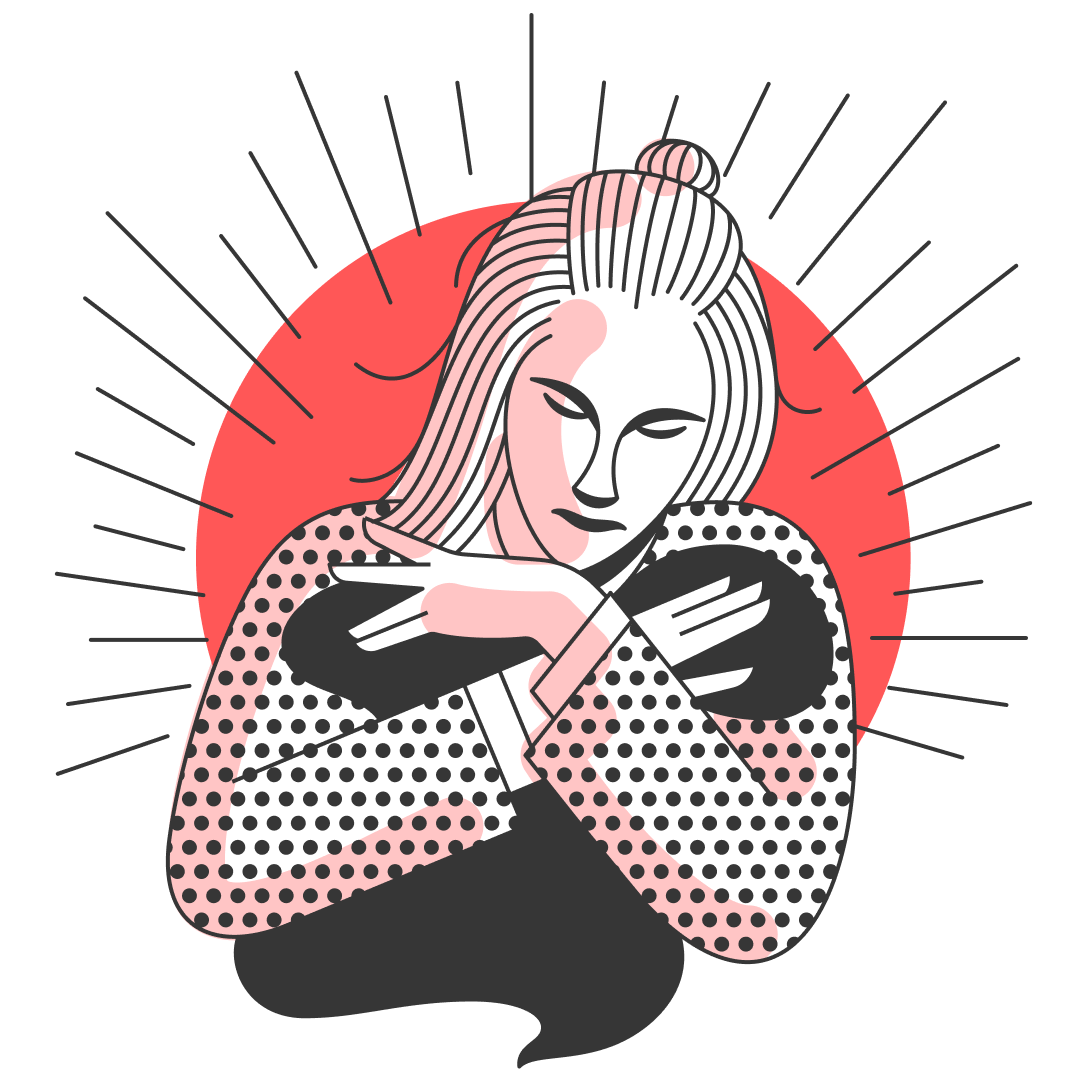
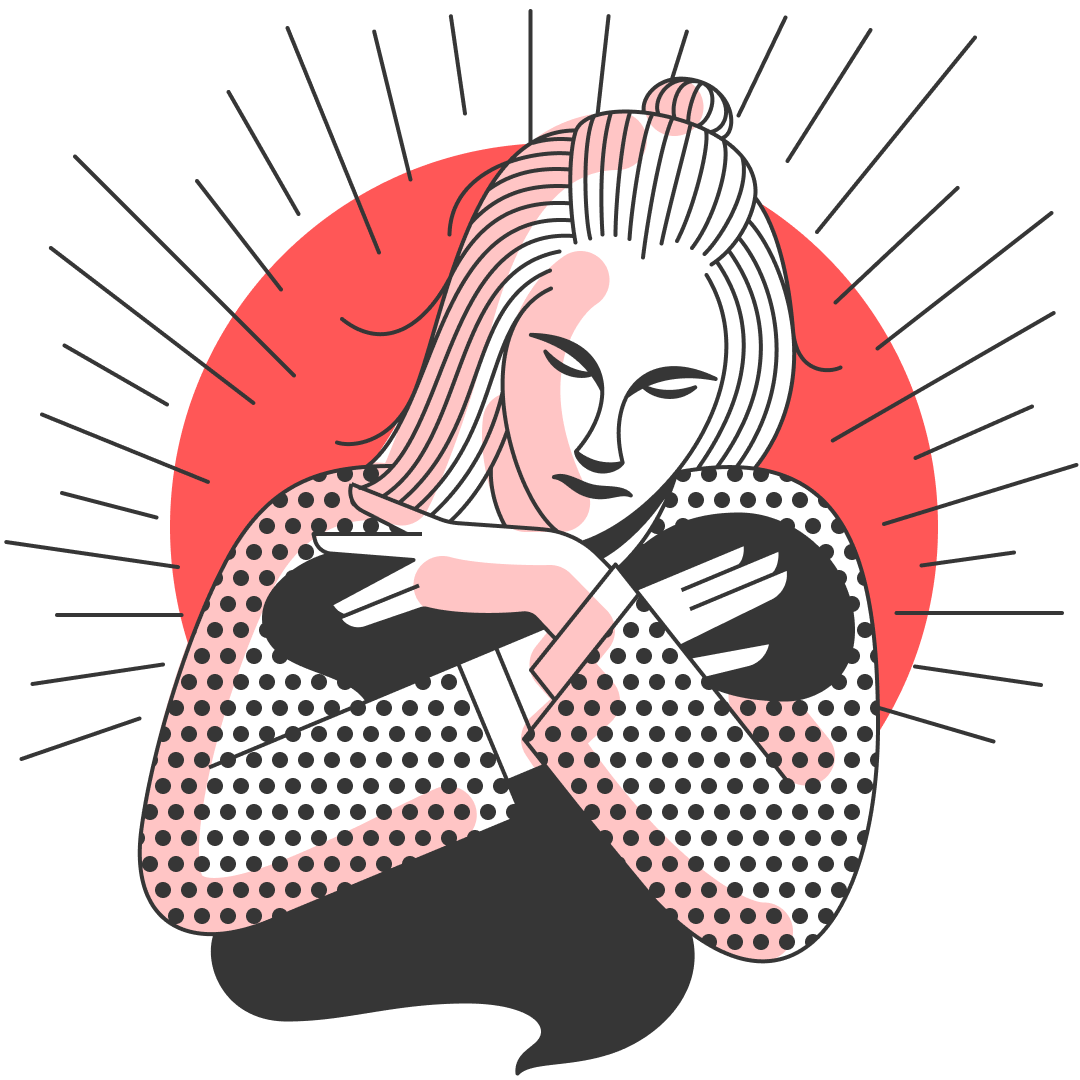
add news section. update illustration. improve mobile styles

diff --git a/src/components/News.tsx b/src/components/News.tsx
@@ -8,6 +8,7 @@ import {BackgroundImage} from '@/components/BackgroundImage'
 import {Container} from '@/components/Container'
 import Image from 'next/image'
 import joAnneImage4 from '@/images/image4.jpg'
+import osfrImg from '@/images/osfr.png'
 
 interface Day {
   date: React.ReactNode
@@ -305,29 +306,53 @@ function ScheduleStatic() {
   )
 }
 
-export function DescriptionOfPiece() {
+export function News() {
   return (
-    <section id="description-of-piece" aria-label="Description of piece" className="py-20 sm:py-32">
-      <Container className="relative z-10 flex flex-col-reverse items-start md:flex-row-reverse gap-16">
-        <div className="max-w-2xl mx-auto lg:mx-0 lg:max-w-4xl lg:pr-24">
-          <h2 className="text-3xl font-medium tracking-tighter font-display text-redish sm:text-5xl">
-            A Journey of Friendship and Courage
+    <section id="news" aria-label="News" className="py-20 sm:py-32">
+      <Container className="relative z-10 flex">
+        <div className="flex-1">
+          <h2 className="text-3xl font-medium tracking-tighter font-display text-blackish sm:text-5xl">
+            News
           </h2>
-          <p className="mt-4 text-xl tracking-tight sm:text-2xl text-blackish font-display">
-            “Some of us have had that friend that made you brave, that brought redemption, that changed the course of your life. Filmed before a live theater audience watch this solo performance true story about deepest friendship, shame, and forgiveness. Playing out through time and place, see how love created courage to take up space. To take the stage. And to face death as well as living. Come and share my love and recognize your own.”
-          </p>
+          <div className="flex flex-col justify-between flex-1 sm:flex-row gap-0">
+            <div>
+              <h3 className="mt-8 text-2xl font-semibold tracking-tight text-blackish">
+                Upcoming events
+              </h3>
+              <div className="flex mt-4 text-xl tracking-tight gap-6 sm:text-2xl text-blackish font-display">
+                <Image alt="" className="w-16 h-16 mt-2 rounded-full sm:w-20 sm:h-20 bg-blackish grayscale" src={osfrImg} />
+                <div>
+                  <p>
+                    Oslo Fringe Performance
+                  </p>
+                  <a className="italic underline underline-offset-2" href="https://www.oslofringe.no/friendship-a-love-story" target="_blank" rel="noopener noreferrer">
+                    Friendship: A Love Story
+                  </a>
+                  <p className="italic">
+                    Salt Theater, Den Arktiske Hovedscena, Oslo
+                  </p>
+                  <p>
+                    September 7, 2024 @ 2pm
+                  </p>
+                </div>
+              </div>
+            </div>
+            <div>
+              <h3 className="mt-8 text-2xl font-semibold tracking-tight text-blackish">
+                Past events
+              </h3>
+              <div className="mt-4 text-xl tracking-tight sm:text-2xl text-blackish font-display">
+                <p>
+                  Tranås At The Fringe International Arts Festival
+                </p>
+              </div>
+            </div>
+          </div>
         </div>
-        <Image alt="" className="w-full mx-auto max-w-[30rem] md:w-[20rem] lg:w-[30rem] rounded-xl" src={joAnneImage4} />
+        {
+          // <Image alt="" className="w-full mx-auto max-w-[30rem] md:w-[20rem] lg:w-[30rem] rounded-xl" src={joAnneImage4} />
+        }
       </Container>
-      {
-        // <div className="relative mt-14 sm:mt-24">
-        // <BackgroundImage position="right" className="-bottom-32 -top-40" />
-        // <Container className="relative">
-        // <ScheduleTabbed />
-        // <ScheduleStatic />
-        // </Container>
-        // </div>
-      }
     </section>
   )
 }

diff --git a/src/components/Performances.tsx b/src/components/Performances.tsx
@@ -113,11 +113,11 @@ export function Performances() {
         <div className="max-w-2xl mx-auto lg:mx-0">
           <h2
             id="performances-title"
-            className="text-4xl font-medium tracking-tighter font-display text-blackish sm:text-5xl"
+            className="text-3xl font-medium tracking-tighter font-display text-blackish sm:text-5xl"
           >
             Performances
           </h2>
-          <p className="mt-4 text-2xl tracking-tight font-display text-blackish">
+          <p className="mt-4 text-xl tracking-tight sm:text-2xl font-display text-blackish">
             Jo-Anne Hart will perform <span className="italic">Friendship: A Love Story</span> this year at the <span className="italic">Tranås At The Fringe International Arts Festival</span> in Sweden, the <span className="italic">Providence Fringe Festival</span> in Rhode Island, and the <span className="italic">Oslo Fringe Performing Arts Festival</span> in Norway.
           </p>
         </div>

diff --git a/src/components/Hero.tsx b/src/components/Hero.tsx
@@ -7,11 +7,11 @@ import JoAnneToon from '@/images/illustration.png'
 
 export function Hero() {
   return (
-    <div className="relative pt-24 pb-10 sm:pt-24">
+    <div className="relative pt-20 pb-10 sm:pt-24">
       <Container className="relative">
         <div className="flex flex-col items-center max-w-2xl mx-auto sm:items-start lg:max-w-4xl lg:px-12">
-          <Image src={JoAnneToon} alt="Jo-Anne Hart" className="w-[55vw] sm:w-[370px]" />
-          <div className="mt-6 text-2xl tracking-tight text-blackish space-y-6 font-display">
+          <Image src={JoAnneToon} alt="Jo-Anne Hart" className="w-[60vw] sm:w-[370px]" />
+          <div className="mt-6 text-xl tracking-tight sm:text-2xl text-blackish space-y-6 font-display">
             <p>
               Experience Jo-Anne Hart’s solo performance, <span className="italic">Friendship: A Love Story</span> —
               a powerful exploration of empathy, trauma, and transformation through storytelling.

diff --git a/src/components/BuyTickets.tsx b/src/components/BuyTickets.tsx
@@ -25,7 +25,7 @@ export function BuyTickets() {
         <div className="relative px-4 py-20 -mx-4 overflow-hidden bg-blackish sm:-mx-6 sm:px-6 md:mx-0 md:rounded-xl md:px-16 xl:px-24 xl:py-36">
           <div className="relative max-w-2xl mx-auto grid grid-cols-1 gap-x-24 gap-y-14 xl:max-w-none xl:grid-cols-2">
             <div>
-              <p className="text-4xl font-medium tracking-tighter font-display text-whitish sm:text-5xl">
+              <p className="text-3xl font-medium tracking-tighter font-display text-whitish sm:text-5xl">
                 Get your tickets
               </p>
               <p className="mt-6 text-lg tracking-tight text-whitish">

diff --git a/src/app/(main)/page.tsx b/src/app/(main)/page.tsx
@@ -1,6 +1,7 @@
 import {Hero} from '@/components/Hero'
 import {BuyTickets} from '@/components/BuyTickets'
 import {DescriptionOfPiece} from '@/components/Schedule'
+import {News} from '@/components/News'
 import {Performances} from '@/components/Performances'
 
 export default function Home() {
@@ -10,6 +11,7 @@ export default function Home() {
       <Performances />
       <DescriptionOfPiece />
       <BuyTickets />
+      <News />
     </>
   )
 }
